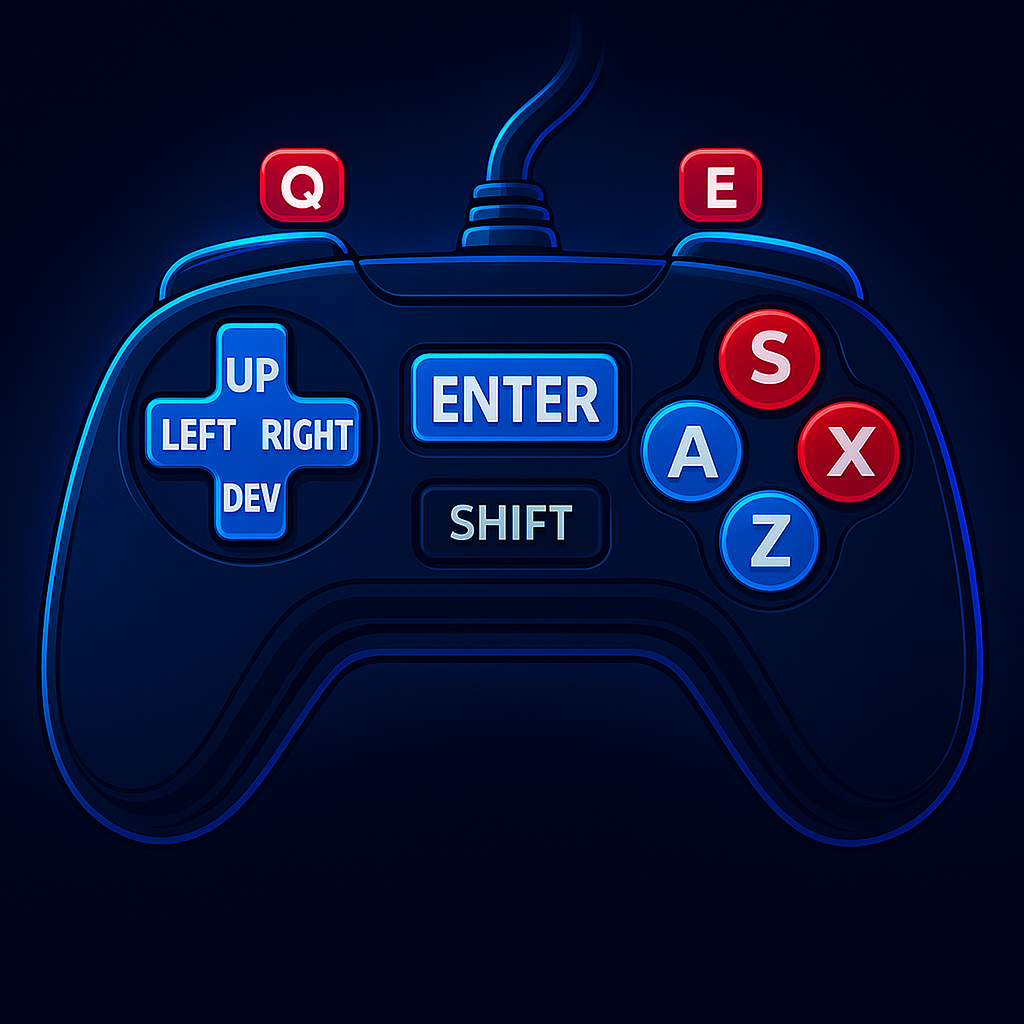
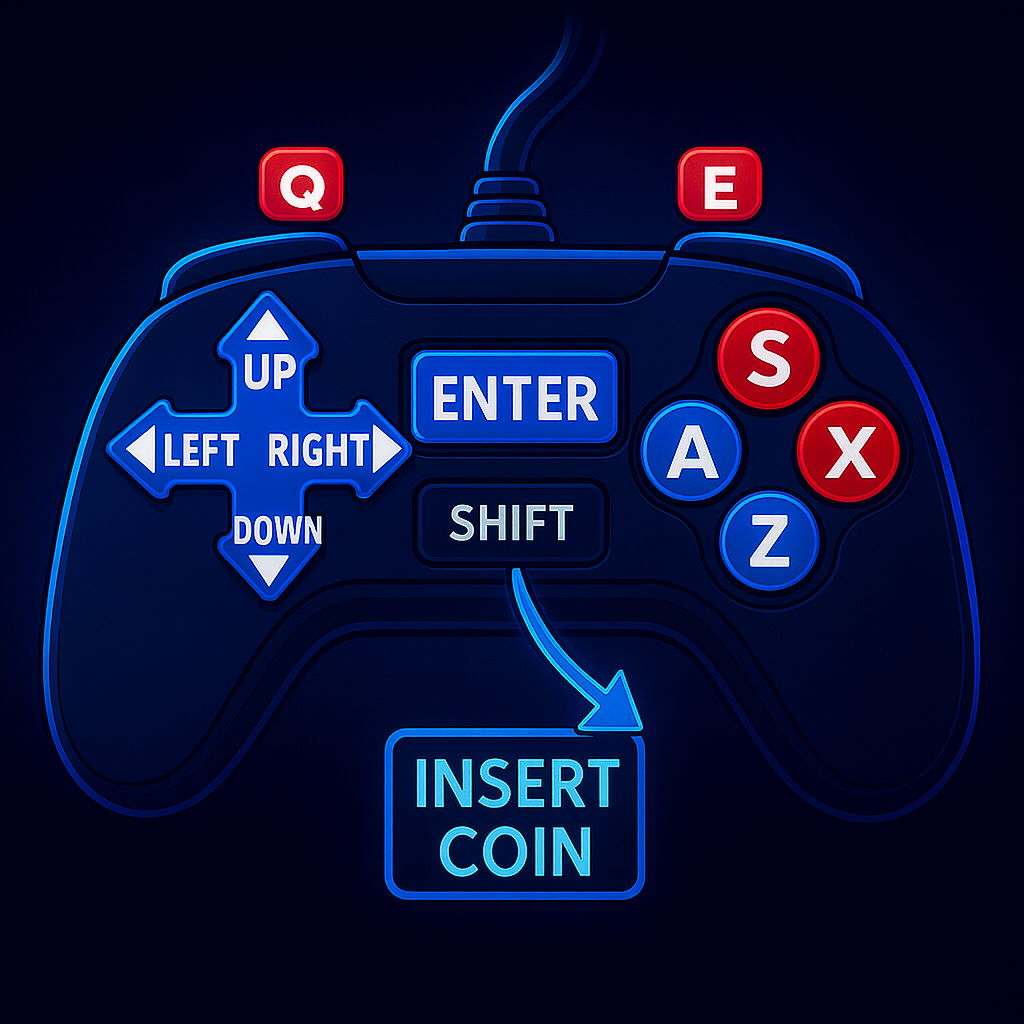
Added more information on Joystick

Changed region(s): [[0.0312, 0.0312, 0.9688, 0.9062]]

diff --git a/src/data/games/fight.ts b/src/data/games/fight.ts
@@ -230,9 +230,10 @@ export const fightGames: Game[] = [
         characters: ["Iori Yagami", "Kyo Kusanagi", "Rugal Bernstein", "Joe Higashi", "Terry Bogard", "Andy Bogard", "Chang Koehan", "Blue Mary"],
         description: "The Dream Match!",
         longDescription:
-            "The King of Fighters ’98 — the legendary Dream Match — unites every major fighter from previous tournaments with no storyline to restrict the chaos. " +
-            "Pure competitive focus, immaculate balance, and SNK’s smoothest mechanics turn every 3-on-3 battle into a high-stakes duel of reflexes and mind-games. " +
-            "Whether commanding the Bogard brothers, battling with Kyo and Iori’s eternal rivalry, or facing Omega Rugal’s tyranny, KOF ’98 stands as one of the greatest fighting games ever created.",
+            "The King of Fighters ’98 (1998), known worldwide as the definitive Dream Match, gathers the entire saga’s iconic roster into one monumental, storyline-free celebration of pure competitive play. " +
+            "Without narrative constraints, SNK focuses entirely on balance, fluid mechanics, and technical excellence, delivering some of the smoothest and most satisfying 3-on-3 battles in fighting game history. " +
+            "Classic rivalries shine — from Kyo and Iori’s eternal clash to the Bogard brothers’ mastery — all culminating in the ultimate challenge against the overwhelming power of Omega Rugal. " +
+            "With its legendary roster, tight controls, expressive combos, and timeless arcade feel, KOF ’98 remains one of the most beloved and respected fighting games ever created, a true crown jewel of SNK’s golden era.",
         players: "1-2 Players",
         developer: "SNK",
         coverImage: "/assets/covers/kof_98.jpg",
@@ -260,9 +261,10 @@ export const fightGames: Game[] = [
         ],
         description: "The ultimate 3-on-3 tournament featuring SNK’s legendary roster!",
         longDescription:
-            "The King of Fighters 2002 stands as one of the most celebrated entries in the franchise, returning to the classic 3-on-3 team format with an enormous character lineup and buttery-smooth gameplay. " +
-            "Fast-paced offense, iconic MAX mode juggles, and precision-based neutral play make it a tournament favorite worldwide. " +
-            "Loved by competitive fans and arcade purists alike, KOF 2002 captures the golden era of SNK fighting brilliance.",
+            "The King of Fighters 2002 (2002) is widely regarded as one of the franchise’s most refined and enduring entries, bringing back the iconic 3-on-3 team format with razor-sharp gameplay and one of the strongest rosters in SNK history. " +
+            "Its fast-paced rhythm, signature MAX Mode mechanics, explosive juggles, and tight neutral game make every match a showcase of precision, creativity, and pure fighting fundamentals. " +
+            "Legends like Kyo, Iori, Terry, Mai, Ryo, K’, Athena, and Kim return with some of their most beloved move-sets, giving both veterans and newcomers a deep well of strategies to master. " +
+            "A cornerstone of competitive play and a defining highlight of the early 2000s arcade scene, KOF 2002 stands as one of the most celebrated and replayed fighting games of SNK’s legacy.",
         players: "1-2 Players",
         developer: "Eolith / SNK Playmore",
         coverImage: "/assets/covers/kof_2002.jpg",
@@ -339,10 +341,10 @@ export const fightGames: Game[] = [
         ],
         description: "SNK’s legendary samurai fighting sequel — elegance, honor, and deadly precision.",
         longDescription:
-            "Samurai Shodown II (1994) elevates the iconic blade-duel series with deeper mechanics, new techniques, and SNK’s crispest Neo Geo animation. " +
-            "Set in a stylized feudal Japan, the game rewards patience, precision, and perfectly timed strikes — where a single slash can shift the tide of battle. " +
-            "New defensive options, refined movement, and expanded special moves give masters of Haohmaru, Genjuro, Ukyo, and others the freedom to express true samurai skill. " +
-            "A masterpiece of atmosphere and weapon-based strategy that helped define SNK’s golden era.",
+            "Samurai Shodown II (1994) stands as one of SNK’s finest achievements, refining its iconic weapon-based formula with deeper mechanics, sharper animation, and an unmistakably atmospheric vision of feudal-era combat. " +
+            "The sequel introduces new techniques, advanced counters, improved movement, and expanded special attacks, giving each duel a tense rhythm where patience and precision rule over button-mashing. " +
+            "Haohmaru, Genjuro, Ukyo, Nakoruru, Galford, Hanzo, and others return with richer personalities and more expressive fighting styles, brought to life through some of the most elegant sprite work ever seen on the Neo Geo. " +
+            "Every clash of steel feels decisive, every strike carries weight, and a single mistake can determine victory — making Samurai Shodown II a masterclass in atmosphere, strategy, and weapon-based artistry at the height of SNK’s golden era.",
         players: "1-2 Players",
         developer: "SNK",
         coverImage: "/assets/covers/samurai.jpg",
@@ -392,9 +394,10 @@ export const fightGames: Game[] = [
         characters: ["Terry Bogard", "Andy Bogard", "Joe Higashi", "Mai Shiranui", "Geese Howard"],
         description: "The definitive Fatal Fury experience with ring-outs and cinematic combat!",
         longDescription:
-            "Real Bout Fatal Fury (1995) reinvents the classic SNK series with explosive presentation, destructible arenas, and the dynamic ring-out system. " +
-            "Battle through South Town as Terry Bogard and face the towering threat of Geese Howard in a saga fueled by rivalries, style, and bone-crushing impact. " +
-            "Fast pacing, fluid combos, and Neo Geo visual flair make Real Bout an essential chapter in the Fatal Fury legacy.",
+            "Real Bout Fatal Fury (1995) represents a major turning point for SNK’s flagship fighting franchise, pushing the series forward with bold visuals, cinematic flair, and a completely reimagined combat flow. " +
+            "Its standout features — destructible stages, multiple planes, and the iconic ring-out mechanic — transform each fight into a strategic showdown where spacing, pressure, and momentum matter as much as pure execution. " +
+            "The journey through South Town is fueled by classic rivalries, following Terry Bogard, Andy, Joe, Mai, and others as they clash against the overwhelming presence of Geese Howard in a story of power, revenge, and style. " +
+            "With fast-paced action, fluid combo routes, expressive sprite work, and that unmistakable Neo Geo punch in both sound and presentation, Real Bout Fatal Fury stands as one of the most celebrated and defining entries in the Fatal Fury legacy.",
         players: "1-2 Players",
         developer: "SNK",
         coverImage: "/assets/covers/faltal_fury.jpg",
@@ -689,9 +692,10 @@ export const fightGames: Game[] = [
         characters: ["Captain Commando", "Captain America", "Spider-Man", "Gambit", "Ryu", "Chun-Li", "Hulk", "Megaman", "Wolverine", "Strider", "Venom", "Zangief"],
         description: "The ultimate crossover!",
         longDescription:
-            "Marvel vs. Capcom: Clash of Super Heroes (1998) unites two legendary universes in explosive 2v2 combat filled with assists, tag supers, and screen-shattering combos. " +
-            "Heroes like Captain America, Wolverine, Ryu, and Strider team up in battles that overflow with comic-book spectacle and arcade intensity. " +
-            "Fast, chaotic, and endlessly stylish, MvC defined a generation of competitive fighters and became one of Capcom’s most iconic CPS-2 masterpieces.",
+            "Marvel vs. Capcom: Clash of Super Heroes (1998) delivers one of the most electrifying crossovers in arcade history, merging Capcom’s iconic fighters with Marvel’s legendary heroes in fast, over-the-top 2v2 battles. " +
+            "With dynamic assists, tag-team supers, air combos, and screen-filling hyper attacks, every match erupts into a vibrant spectacle of comic-book chaos and CPS-2 precision. " +
+            "Captain America, Wolverine, Spider-Man, Ryu, Chun-Li, Strider, and many others return with some of their flashiest movesets, each dripping with personality and style. " +
+            "Blending frantic pace, sharp controls, and unforgettable presentation, Marvel vs. Capcom stands as one of Capcom’s most celebrated arcade masterpieces and a cornerstone of the versus fighting legacy.",
         players: "1-2 Players",
         developer: "Capcom",
         coverImage: "/assets/covers/marvel_vs_capcom.jpg",

diff --git a/src/components/Game/GameController.tsx b/src/components/Game/GameController.tsx
@@ -27,7 +27,7 @@ export const GameController = () => {
           <img
             src={gamepad}
             alt="Gamepad Illustration"
-            className="object-cover w-full h-[200px] sm:h-[340px]"
+            className="object-cover w-full h-[300px] sm:h-[340px]"
           />
         </div>
       </Card>
